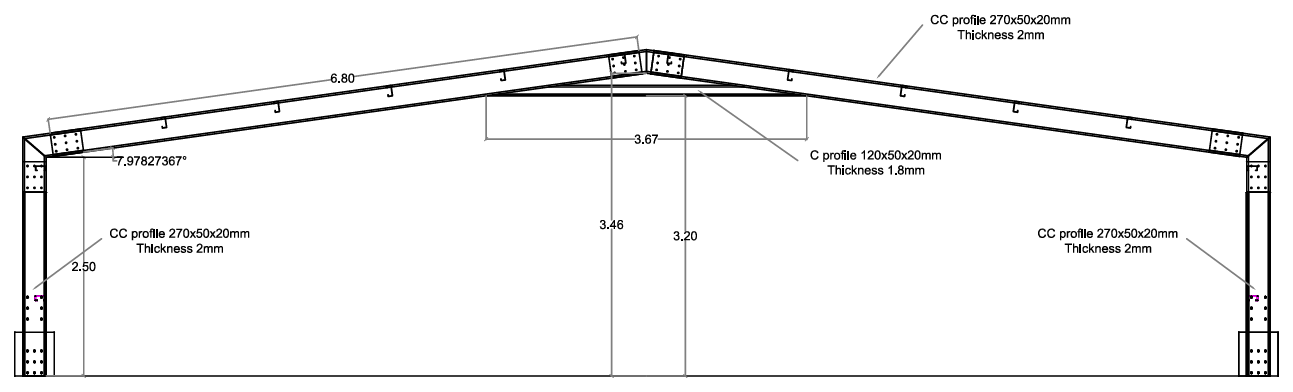
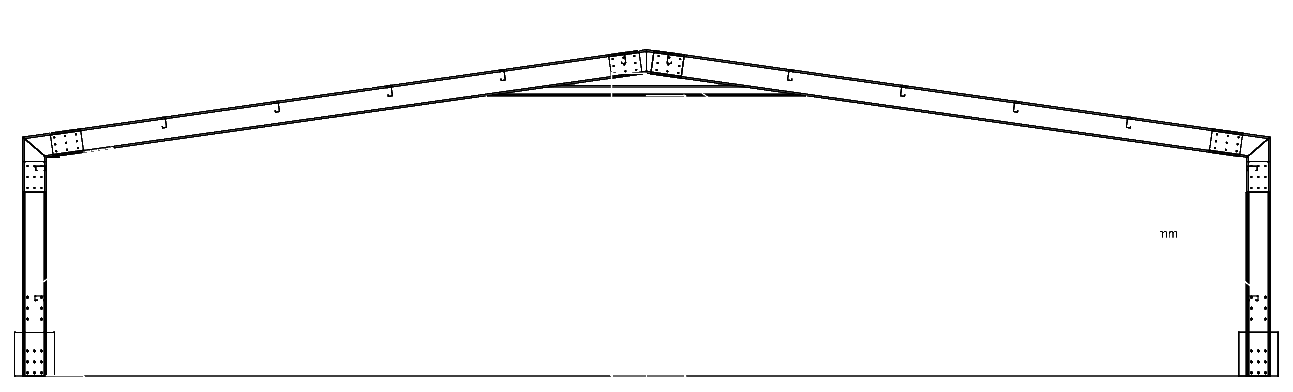
Clean frame drawing, remove steel size specs
Claude-Session: https://claude.ai/code/session_01EXsoRxNBMiV5aYtR5jXvwd

diff --git a/index.html b/index.html
@@ -786,7 +786,7 @@ h2{font-size:max(var(--fmin),calc(clamp(28px,4.4vw,44px)*var(--ts)));margin:10px
         <button type="button" class="dsg-view" id="dsgView" aria-label="Enlarge drawing"><img id="dsgImg" src="img/dw_iso.png" alt="" loading="lazy" decoding="async"></button>
         <div class="dsg-specs">
           <span><b>114.95 × 14 m</b>house size</span>
-          <span><b>Double C</b>270×50×20 mm · 2 mm</span>
+          <span><b>Double C</b>steel frame</span>
           <span><b>1.38 m</b>pillar spacing</span>
           <span><b>2.56 / 3.52 m</b>eave / ridge height</span>
         </div>
@@ -926,7 +926,6 @@ document.addEventListener('keydown',e=>{if(!$('#lb').classList.contains('open'))
  $$('#trio button').forEach(b=>b.onclick=()=>openLb(T,+b.dataset.i));
  const D=[
   {src:'img/dw_iso.png',t:'3D model',d:'The whole house at a glance: corrugated roof, side openings and the stepped front section.'},
-  {src:'img/dw_plan.png',t:'Plan and cross-section',d:'Truss layout above, section C–C below: double-C pillars every 1.38 m on a concrete wall and slab.'},
   {src:'img/dw_section.png',t:'Frame section',d:'One double-C arch in detail, with bolted coupling plates at the eaves and the ridge.'},
   {src:'img/dw_fans.png',t:'End wall with fans',d:'Eight exhaust fans pull the air through the house.'}
  ].map(x=>({...x,cap:x.t}));
@@ -964,7 +963,7 @@ const SOL=[
   g:[['tomato','Tomato · growing gutter'],['lettuce','Lettuce · NFT system'],['hy_a','Strawberry · growing gutter'],['hy_b','Strawberry · A-frame'],['hy_c','Blueberry · hydroponic system'],['hy_d','A-frame growing bags']]},
  {k:'Climate & automation',tag:'Cooling, heating, control',h:'Smart climate control',d:'Fully automated, with only daily monitoring. Irrigation runs in the order and duration needed, fertilizer is injected at set ratios, and sensors control water into plastic lakes and tanks.',f:[['Control panel & controller','Runs fans, irrigation, shading and heating.'],['Weather station','Wind, temperature and humidity sensors drive the automation.'],['Automatic roof opening','Roof vents open on demand for natural ventilation.'],['Heating systems','Hot-air heaters with ducts keep plants warm and growth consistent.']],
   g:[['panel','Control panel & controller'],['weather','Weather station'],['roof','Automatic roof opening'],['heater','Heating system'],['nursery_boom','Boom irrigation'],['pads','Cooling pads']]},
- {k:'Poultry houses',tag:'Double-C steel houses',h:'Poultry houses, built on double-C steel frames',d:'Purpose-built steel poultry houses with ventilation and temperature control for healthy, productive flocks. Cooling with exhaust fans, heating and automation can be added.',f:[['Project','Broiler house · Africa · 15,000 m² · 2025'],['Frame','Two C purlins bolted together into double C profiles (270×50×20 mm, 2 mm) form pillars and arches.'],['Roof build-up','Polyethylene (PE), insulation, polyethylene (PE).'],['Cladding','Corrugated sheets, sandwich panels or single panels.']],
+ {k:'Poultry houses',tag:'Double-C steel houses',h:'Poultry houses, built on double-C steel frames',d:'Purpose-built steel poultry houses with ventilation and temperature control for healthy, productive flocks. Cooling with exhaust fans, heating and automation can be added.',f:[['Project','Broiler house · Africa · 15,000 m² · 2025'],['Frame','Two C purlins bolted together into double C profiles form pillars and arches.'],['Roof build-up','Polyethylene (PE), insulation, polyethylene (PE).'],['Cladding','Corrugated sheets, sandwich panels or single panels.']],
   g:[['poultry_a','Broilers'],['poultry_b','Steel frame under construction'],['poultry_c','Interior with exhaust fans'],['poultry_d','Roof gutter and frame'],['dw_iso.png','Isometric · 114.95 × 14 m'],['dw_section.png','Frame section'],['dw_fans.png','End wall · exhaust fans']]},
  {k:'Animal houses',tag:'Goat houses and more',h:'Goat houses and animal housing',d:'Purpose-built galvanized steel structures with ventilation, temperature control, mechanized side openings and easy-clean floors.',f:[['Goût Blanc Farm','Annaya, Lebanon · Goat house · 2018'],['Turnkey','Design, supply and installation']],
   g:[['goat_b','Goat house interior'],['goat_c','Feeding aisle & brushes'],['goat_d','Bobcat-cleaned manure alley'],['goat_a','Steel roof structure'],['goat_f','Motorised side opening']]},
@@ -1091,7 +1090,7 @@ $$('[data-copy]').forEach(b=>b.onclick=async()=>{const t=b.textContent;try{await
 /* after first paint, quietly fetch the small thumbnails so tabs open instantly */
 (function(){const u=[];const add=x=>{if(x&&!u.includes(x))u.push(x)};
  try{SOL.forEach(s=>(s.g||[]).forEach(x=>add(TH(I(x[0])))));P.forEach(p=>add(TH(I(p.img))));BEAUTY.forEach(b=>add(TH(I(b[0]))));FAC.forEach(f=>add(I(f.img)))}catch(e){}
- ['dw_plan.png','dw_iso.png','dw_section.png','dw_fans.png'].forEach(n=>add('img/'+n));
+ ['dw_iso.png','dw_section.png','dw_fans.png'].forEach(n=>add('img/'+n));
  let i=0;const nx=()=>{if(i>=u.length)return;let k=0;for(;k<3&&i<u.length;k++){const im=new Image();im.onload=im.onerror=()=>{if(--run===0)nx()};run++;im.src=u[i++]}};let run=0;
  const go=()=>nx();window.addEventListener('load',()=>setTimeout(go,300));})();
 </script>
